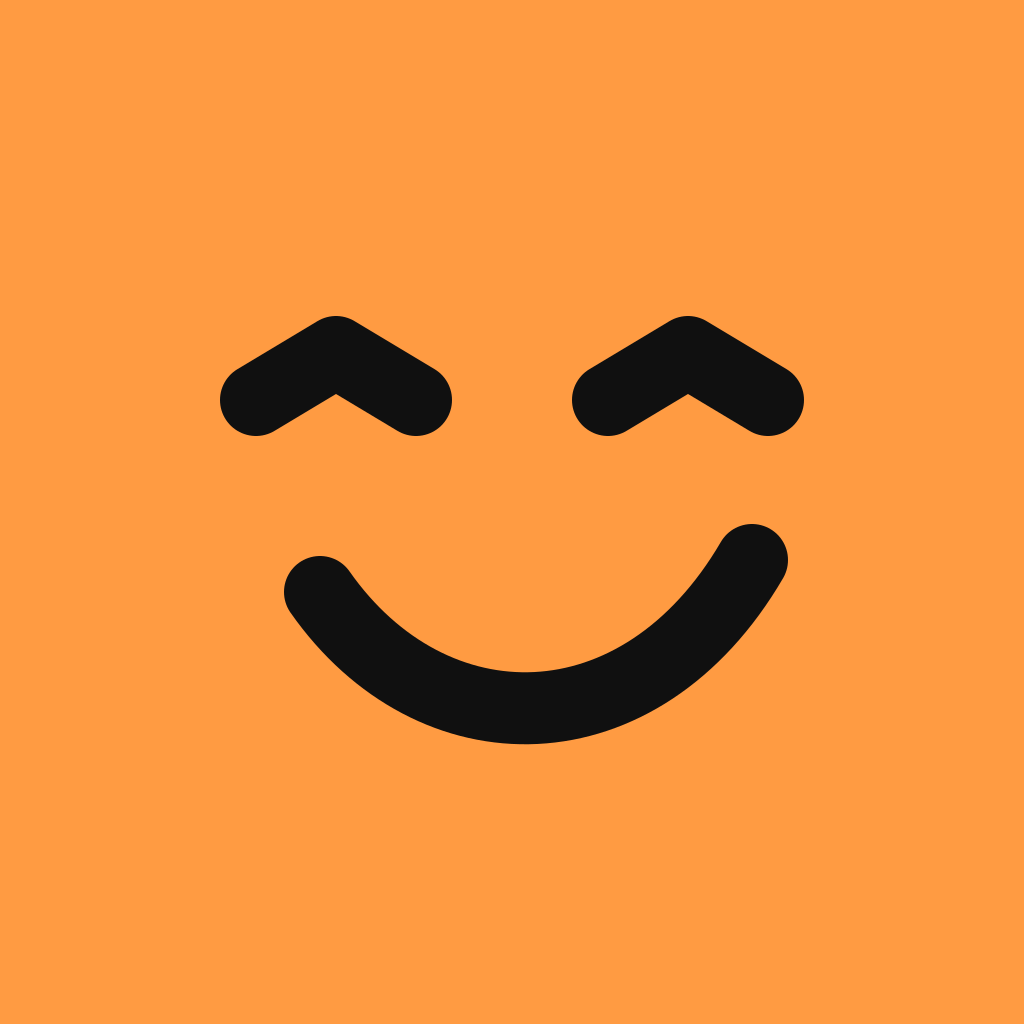
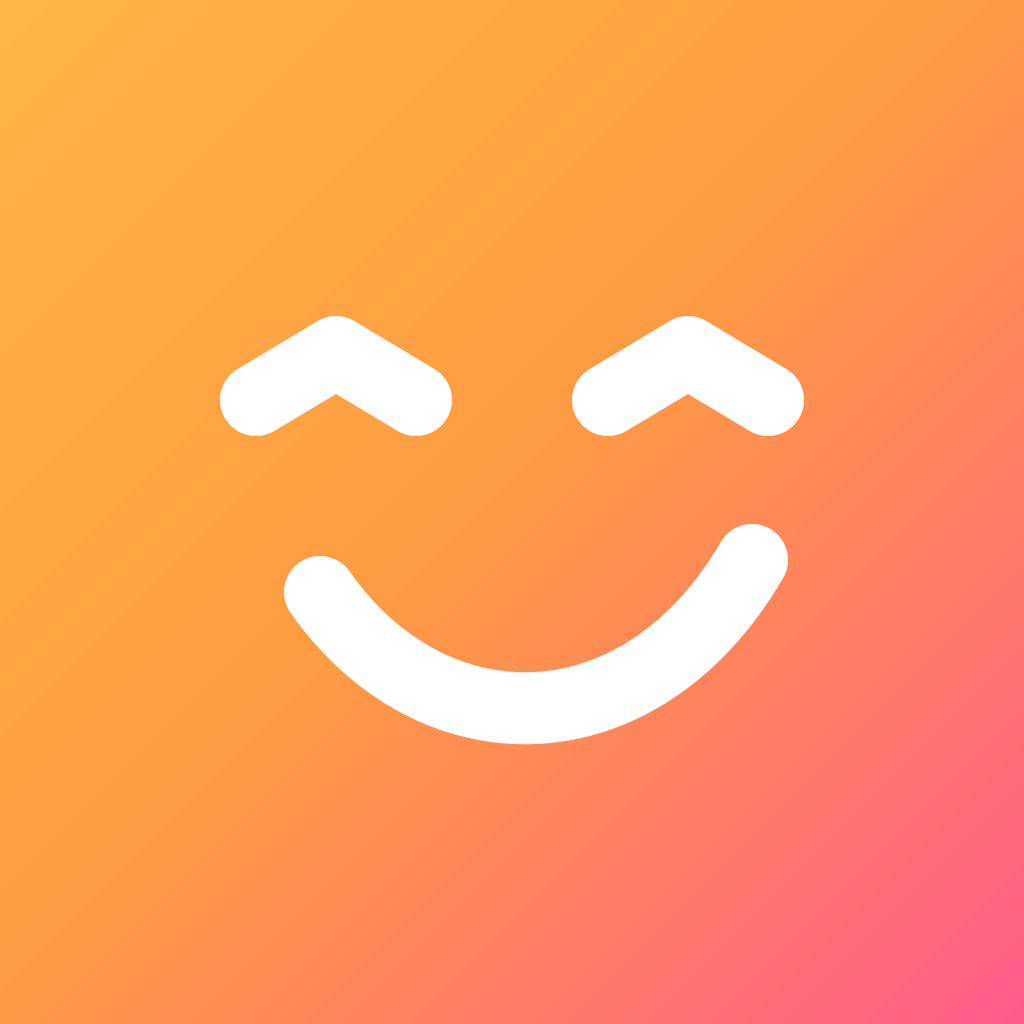
feat(photo-contest): 앱 아이콘을 브랜드 그라데이션으로 바꾼다
iOS 아이콘은 그라데이션 바탕에 흰 웃음을 그린다. Android 적응형 아이콘은 흰 웃음 전경과 그라데이션 배경 이미지로 나눈다. 기존 단색 backgroundColor 값은 그대로 둔다.
새 아이콘은 다음 네이티브 빌드부터 적용된다.

diff --git a/projects/photo-contest/apps/mobile/app.config.ts b/projects/photo-contest/apps/mobile/app.config.ts
@@ -54,7 +54,11 @@ export default function appConfig({ config }: ConfigContext): ExpoConfig {
     },
     android: {
       package: APP_ID,
-      adaptiveIcon: { foregroundImage: './assets/adaptive-icon.png', backgroundColor: '#ff9b42' },
+      adaptiveIcon: {
+        foregroundImage: './assets/adaptive-icon.png',
+        backgroundImage: './assets/adaptive-icon-background.png',
+        backgroundColor: '#ff9b42',
+      },
       ...(existsSync(googleServicesFile) ? { googleServicesFile } : {}),
       allowBackup: false,
       predictiveBackGestureEnabled: false,
